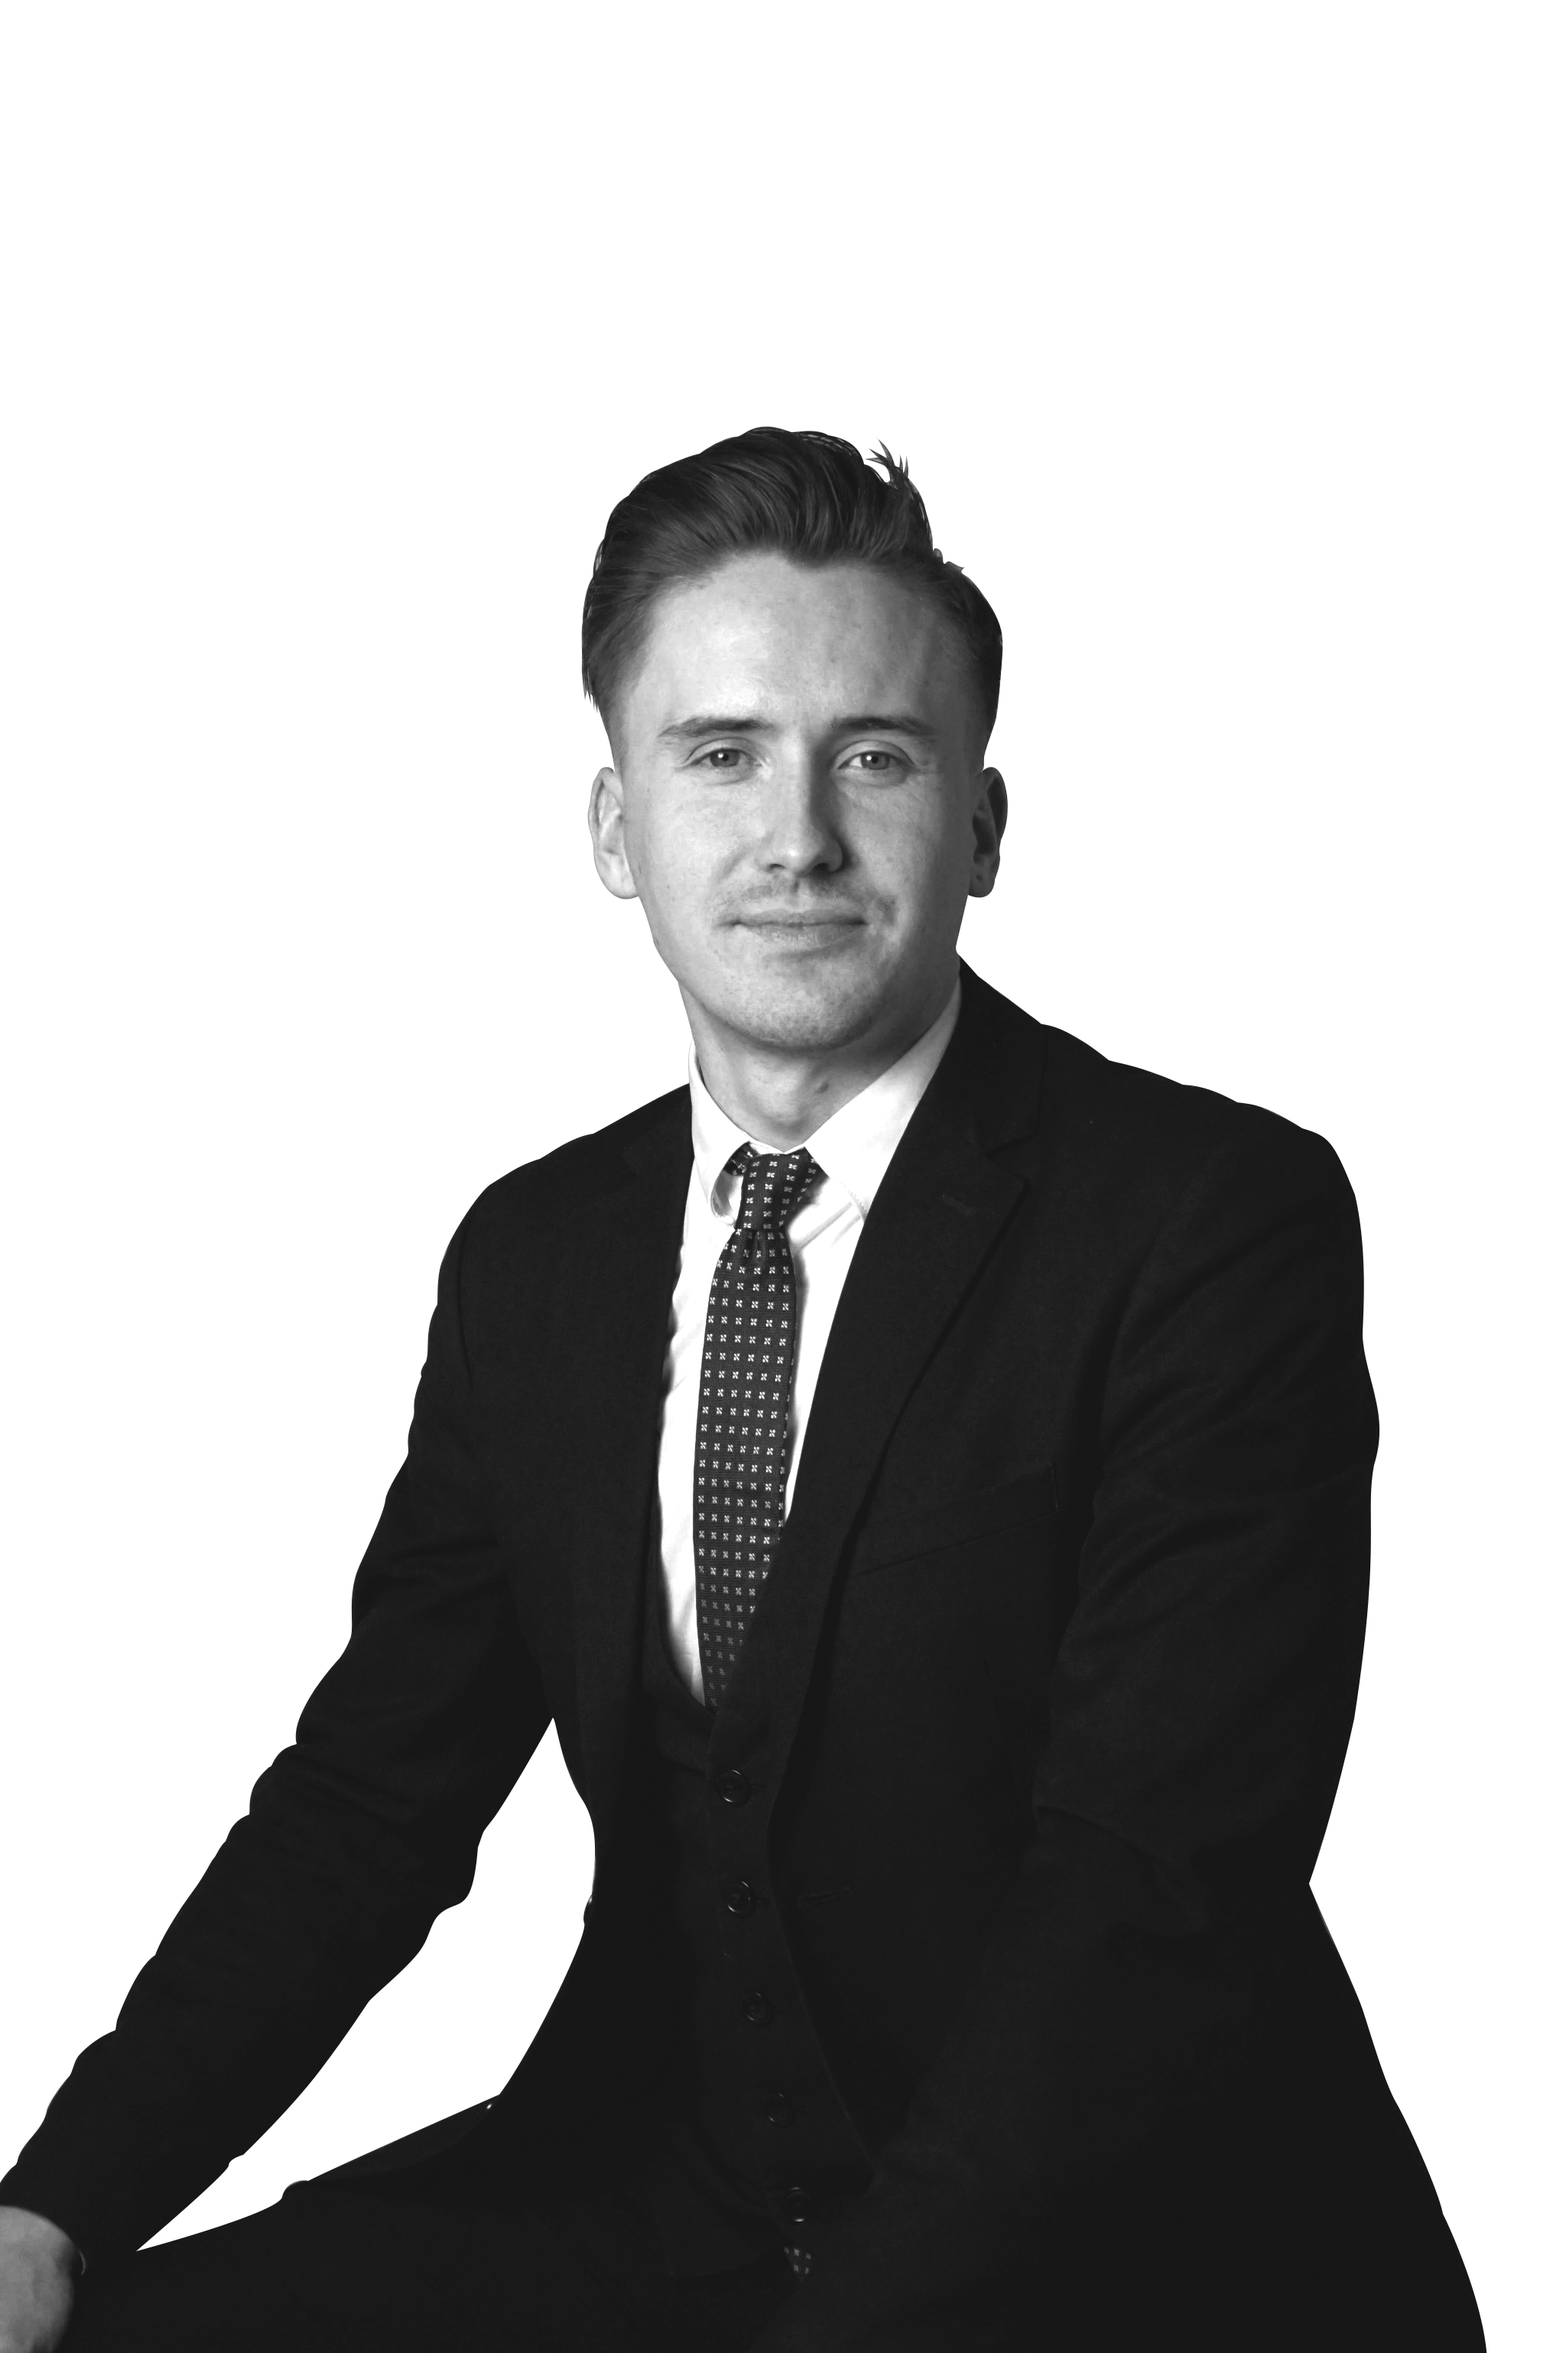
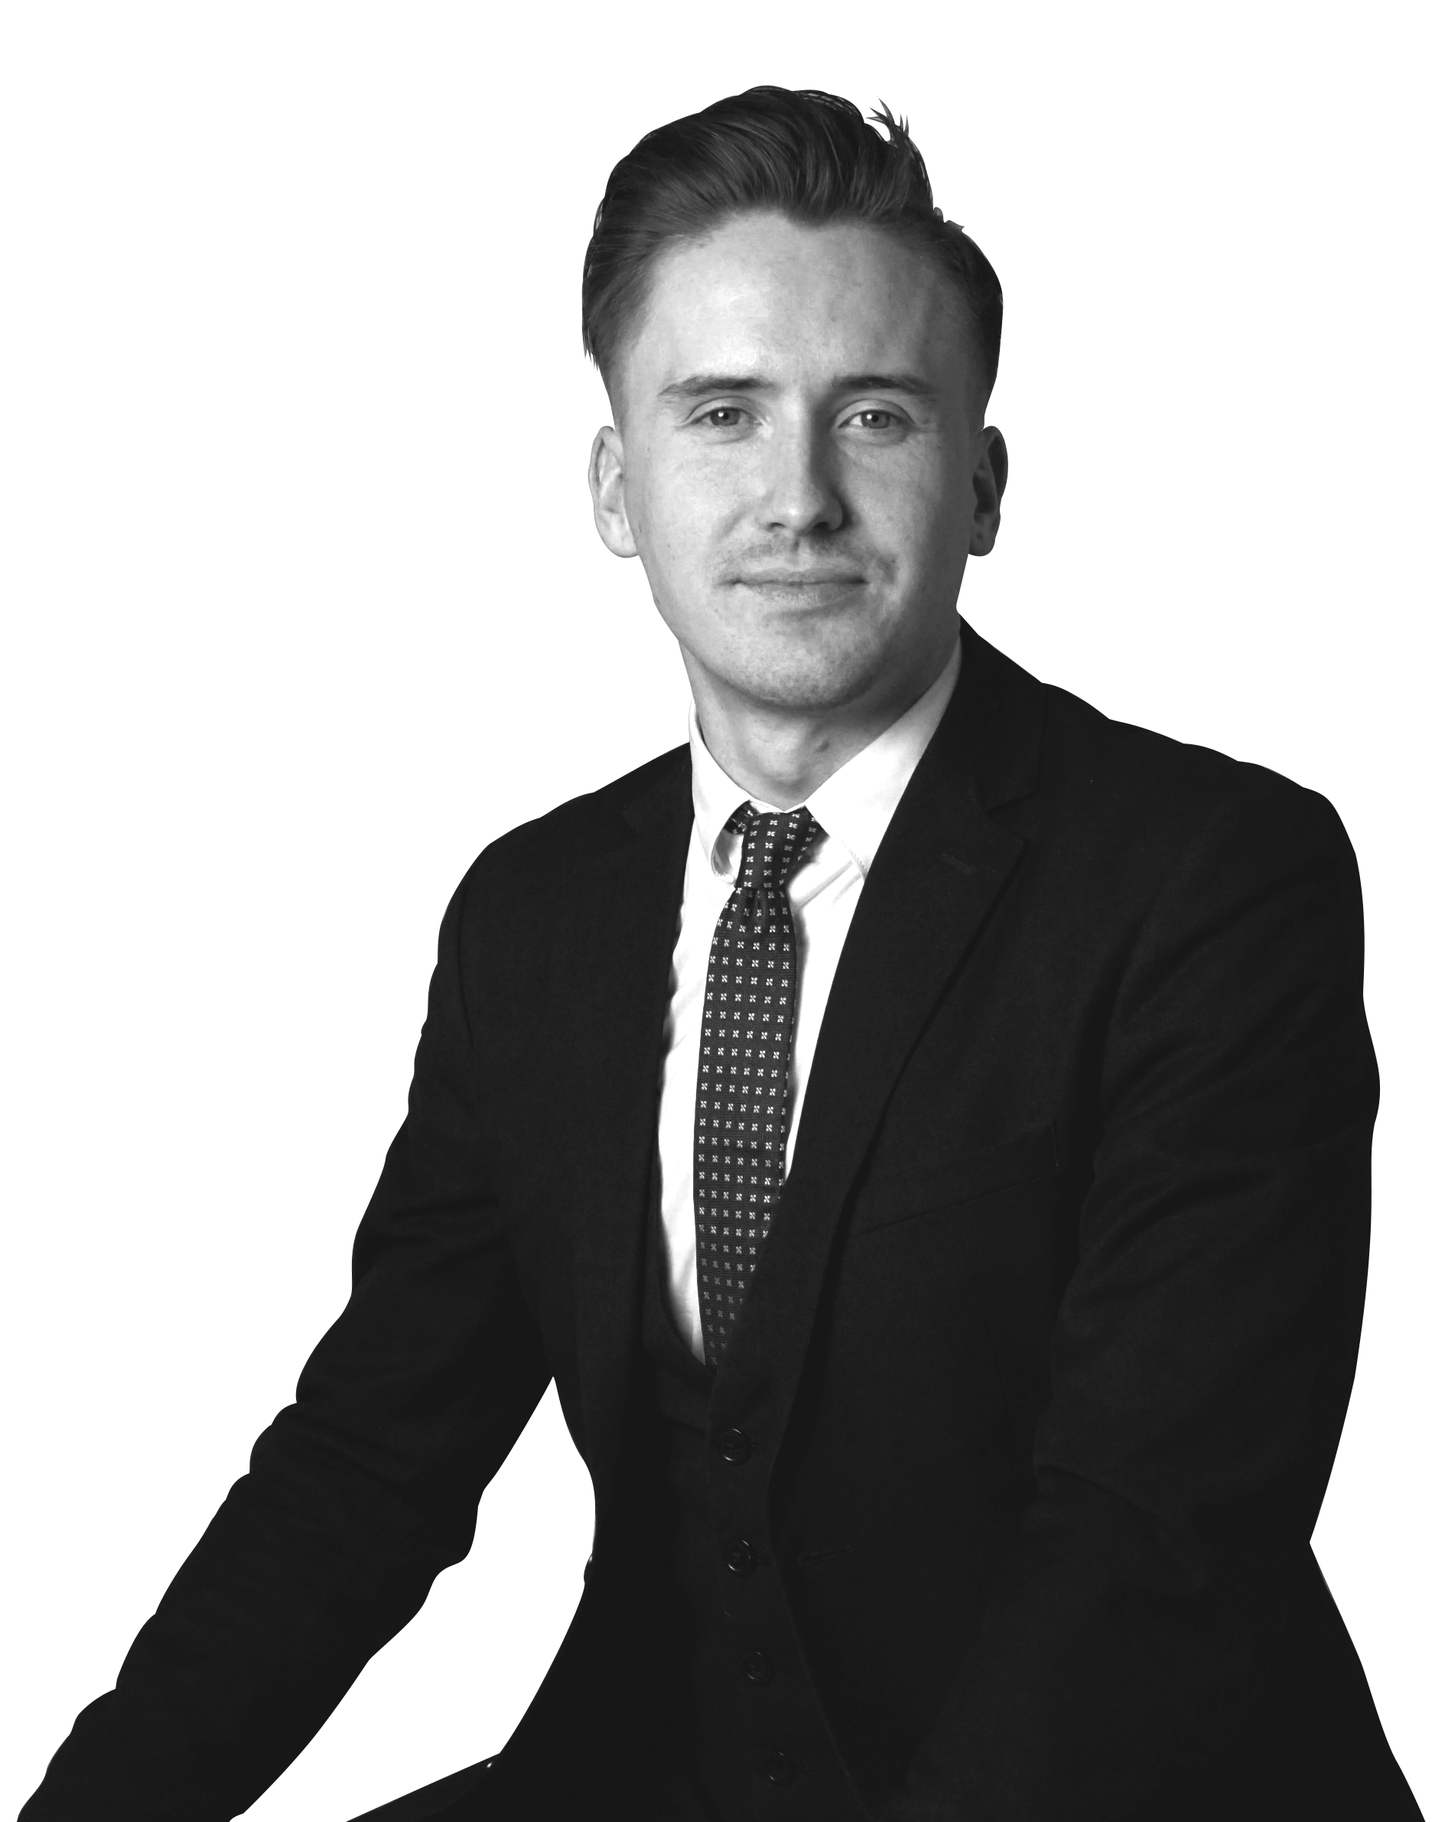
..

Changed region(s): [[0.3098, 0.0311, 1.0, 1.0], [0.0929, 0.7145, 0.4338, 1.0], [0.0, 0.4971, 0.3098, 1.0]]

diff --git a/src/projectdata/projectDataInd.js b/src/projectdata/projectDataInd.js
@@ -17,7 +17,7 @@ const projectDataInd = [
   {
     title: "Triton Scuba Helmet",
     thumbnail: "../../public/images/Helmet1.png",
-    body: "Project made about a shark vacuum cleaner",
+    body: "Bachelor project",
     images: [
       "../../public/images/Helmet1.png",
       "../../public/images/Helmet2.png",
@@ -26,6 +26,55 @@ const projectDataInd = [
       "../../public/images/Helmet5.png",
       "../../public/images/Helmet6.png",
       "../../public/images/Helmet7.png",
+    ],
+  },
+  {
+    title: "Babylon",
+    thumbnail: "../../public/images/Babylon0.png",
+    body: "Wall-mounted fruit basket",
+    images: [
+      "../../public/images/Babylon1.png",
+      "../../public/images/Babylon2.png",
+      "../../public/images/Babylon3.png",
+      "../../public/images/Babylon4.png",
+      "../../public/images/Babylon5.png",
+      "../../public/images/Babylon6.png",
+      "../../public/images/Babylon7.png",
+      "../../public/images/Babylon8.png",
+      "../../public/images/Babylon9.png",
+    ],
+  },
+  {
+    title: "Shower",
+    thumbnail: "../../public/images/Shower0.jpg",
+    body: "Electrically controlled shower mixer.",
+    images: [
+      "../../public/images/Shower1.jpg",
+      "../../public/images/Shower2.jpg",
+      "../../public/images/Shower3.jpg",
+      "../../public/images/Shower4.jpg",
+      "../../public/images/Shower5.jpg",
+      "../../public/images/Shower6.jpg",
+    ],
+  },
+  {
+    title: "Powertools",
+    thumbnail: "../../public/images/IDB0.png",
+    body: "Powertools",
+    images: [
+      "../../public/images/IDB0.png",
+      "../../public/images/IDB1.png",
+      "../../public/images/IDB2.png",
+    ],
+  },
+  {
+    title: "Crane Stool",
+    thumbnail: "../../public/images/Crane0.png",
+    body: "Stool built in the span of 24 hours.",
+    images: [
+      "../../public/images/Crane0.png",
+      "../../public/images/Crane1.png",
+      "../../public/images/Crane2.png",
     ],
   },
 ];

diff --git a/src/components/GalleryContainer.jsx b/src/components/GalleryContainer.jsx
@@ -36,8 +36,8 @@ export default function GalleryContainer({
 
   let position = ["up", "down"];
   return (
-    <div className="flex flex-col gallery-container ">
-      <div className="flex gallery-container">
+    <div className="flex  flex-col gallery-container">
+      <div className="flex flex-wrap gallery-container  w-1/2">
         {projectData
           ? projectData.map((project, index) => (
               <div
@@ -58,32 +58,6 @@ export default function GalleryContainer({
               </div>
             ))
           : ""}
-      </div>
-      <div className="flex gallery-container">
-        <ProjectBlock
-          position={position[1]}
-          parentIsClicked={parentIsClicked}
-          parentIsUnfaded={parentIsUnfaded}
-          setParentIsUnfaded={setParentIsUnfaded}
-          hoverIsActive={hoverIsActive}
-          setHoverIsActive={setHoverIsActive}
-        />
-        <ProjectBlock
-          position={position[1]}
-          parentIsClicked={parentIsClicked}
-          parentIsUnfaded={parentIsUnfaded}
-          setParentIsUnfaded={setParentIsUnfaded}
-          hoverIsActive={hoverIsActive}
-          setHoverIsActive={setHoverIsActive}
-        />
-        <ProjectBlock
-          position={position[1]}
-          parentIsClicked={parentIsClicked}
-          parentIsUnfaded={parentIsUnfaded}
-          setParentIsUnfaded={setParentIsUnfaded}
-          hoverIsActive={hoverIsActive}
-          setHoverIsActive={setHoverIsActive}
-        />
       </div>
     </div>
   );

diff --git a/src/pages/About.jsx b/src/pages/About.jsx
@@ -2,7 +2,7 @@ import "../index.css";
 import { useContextAbout } from "../context/ContextAbout";
 import { useEffect, useState } from "react";
 import { usePageNav } from "../hooks/usePageNavigation";
-import marcus from "../assets/marcus.jpg";
+import portrait from "../../public/images/portrait_mono.png";
 
 export default function About({ handleClickClear }) {
   const { isFadedAbout, setIsFadedAbout } = useContextAbout();
@@ -61,7 +61,7 @@ export default function About({ handleClickClear }) {
                 <div className="p-10">About - Click to flip</div>
                 <img
                   className="object-cover object-center h-[400px]"
-                  src={marcus}
+                  src={portrait}
                   alt="Marcus"
                 />
               </div>

diff --git a/src/pages/ProjectPage.jsx b/src/pages/ProjectPage.jsx
@@ -37,9 +37,9 @@ export default function ProjectPage() {
           <div
             className={`${
               !isFadedProjectPage ? "gallery-title" : "gallery-title--faded"
-            } gallery-element w-40 font-medium hover:scale-110 ease-in-out duration-1000`}
+            } gallery-element font-medium hover:scale-110 ease-in-out duration-1000`}
           >
-            Project
+            {currentProject.title}
           </div>
           <div
             className={`gallery-x ${

diff --git a/src/pages/MainPage.jsx b/src/pages/MainPage.jsx
@@ -37,7 +37,7 @@ export default function MainPage() {
               </div>
               {
                 <div className="z-0 absolute bg-slate-500 h-full w-full">
-                  {/*<InteractiveCircles className="behind" />*/}
+                  <InteractiveCircles className="behind" />
                 </div>
               }
             </ContextProjectPage>

diff --git a/src/index.css b/src/index.css
@@ -195,12 +195,11 @@
 }
 
 .gallery-element {
-  margin: 1rem 0;
   background-color: black;
   color: white;
-  padding: 0.25rem;
   border-radius: 0;
   text-align: center;
+  padding: 0.5vw;
 }
 
 .gallery-title {
